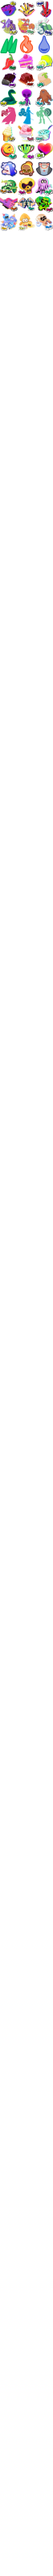
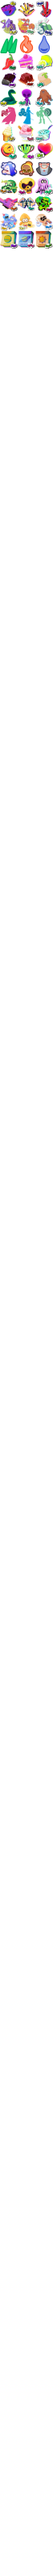
Flair ready

Changed region(s): [[0.0303, 0.0621, 0.303, 0.1241], [0.697, 0.0621, 0.9394, 0.1241], [0.3636, 0.0621, 0.6364, 0.1241]]

diff --git a/stylesheets/stylesheet.css b/stylesheets/stylesheet.css
@@ -4907,6 +4907,9 @@ body {
 .flair-c-737:before{background-position:0px -264px}
 .flair-c-738:before{background-position:-22px -264px}
 .flair-c-739:before{background-position:-44px -264px}
+.flair-c-740:before{background-position:0px -286px}
+.flair-c-741:before{background-position:-22px -286px}
+.flair-c-742:before{background-position:-44px -286px}
 
 /* Countdown CSS */
 a[href="#days"], a[href="#hours"], a[href="#minutes"], a[href="#seconds"] {
